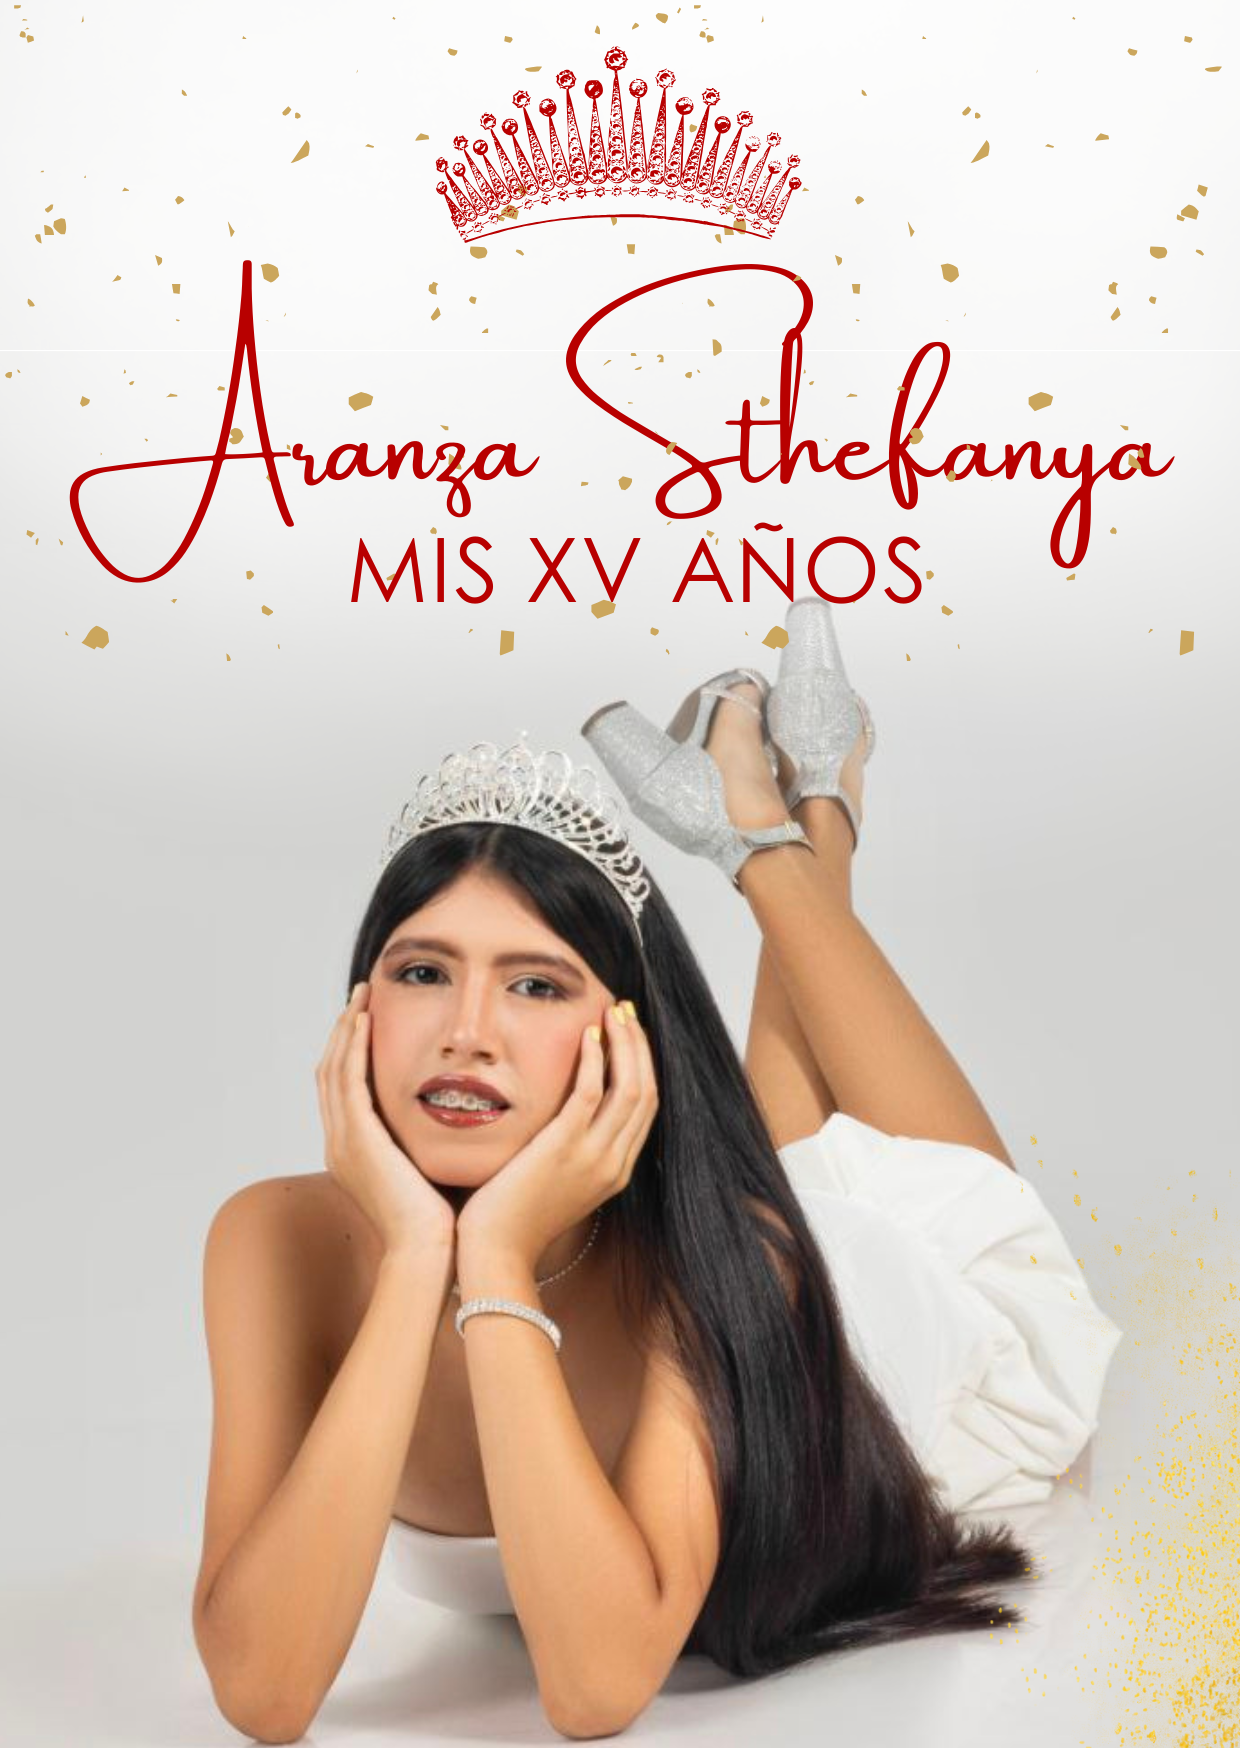
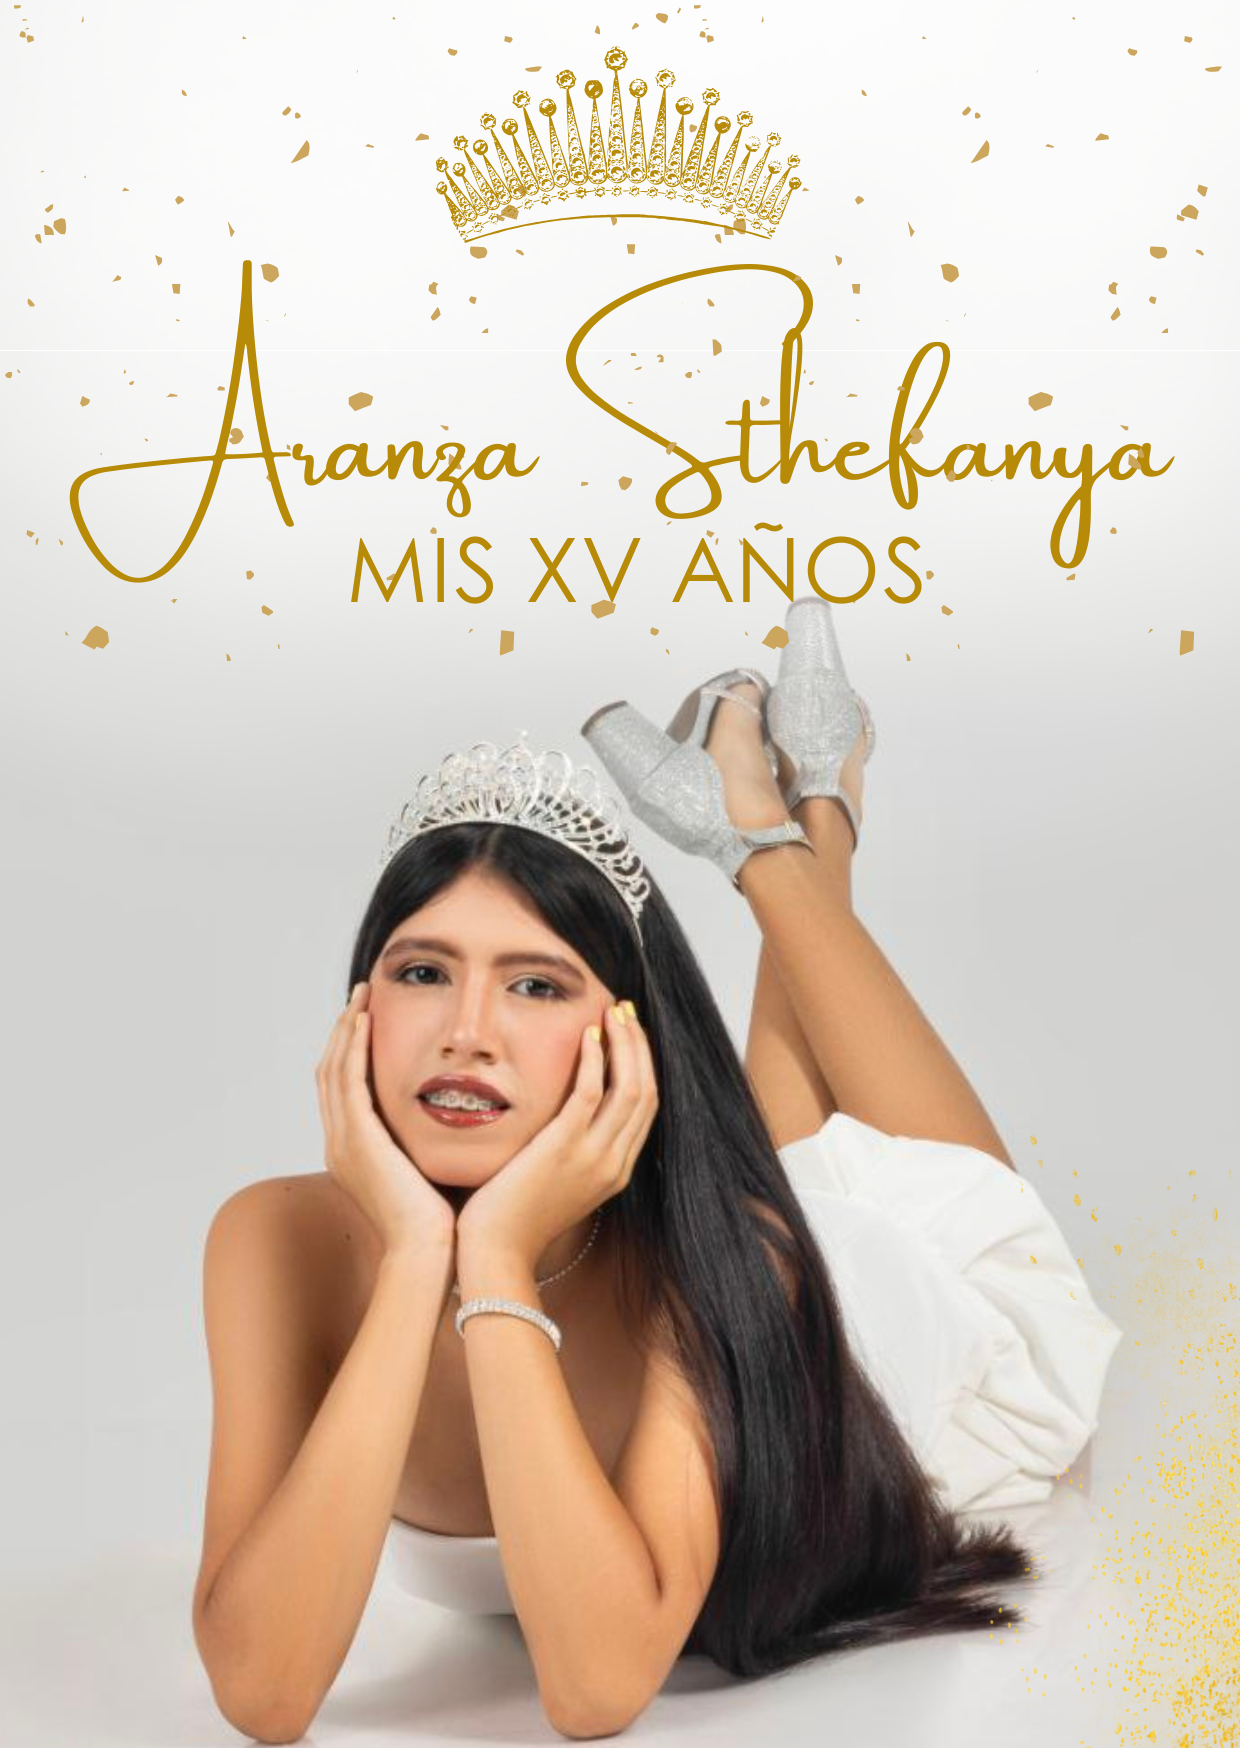
Add files via upload

diff --git a/style.css b/style.css
@@ -1,11 +1,12 @@
 /* Global Variables */
 :root {
-    --vinotinto: #800020;
-    --vinotinto-glow: rgba(128, 0, 32, 0.4);
     --gold: #d4af37;
+    --gold-dark: #b8912d;
+    --gold-light: #f4cf6d;
+    --gold-glow: rgba(212, 175, 55, 0.4);
     --beige: #f5f5dc;
     --white: #ffffff;
-    --font-family: 'Century Gothic', 'Outfit', sans-serif;
+    --font-family: 'Outfit', sans-serif;
 }
 
 * {
@@ -23,7 +24,7 @@ body {
     flex-direction: column;
     align-items: center;
     position: relative;
-    color: var(--vinotinto);
+    color: var(--gold-dark);
 }
 
 /* Sparkles Container */
@@ -174,19 +175,20 @@ body {
 
 .nav-btn {
     padding: 0.8rem 1.5rem;
-    background: var(--vinotinto);
+    background: var(--gold);
     color: var(--white);
-    border: none;
+    border: 1px solid var(--white);
     border-radius: 25px;
     cursor: pointer;
     font-family: var(--font-family);
     font-size: 0.9rem;
     transition: transform 0.2s, background 0.3s;
-    box-shadow: 0 4px 10px var(--vinotinto-glow);
+    box-shadow: 0 4px 10px rgba(212, 175, 55, 0.3);
+    font-weight: 300;
 }
 
 .nav-btn:hover {
-    background: #600018;
+    background: #e5c354;
     transform: translateY(-2px);
 }
 
@@ -215,15 +217,14 @@ body {
 footer {
     width: 100%;
     padding: 3rem 1rem;
-    background: linear-gradient(to top, #4d0013, #800020, transparent);
-    /* Pure deep vinotinto */
-    color: var(--white);
+    background: linear-gradient(to top, var(--gold-dark), var(--white), transparent);
+    /* Gold to white gradient */
+    color: var(--gold-dark);
     text-align: center;
     z-index: 10;
     margin-top: auto;
     backdrop-filter: blur(8px);
     border-top: 1px solid rgba(212, 175, 55, 0.2);
-    /* Gold border trace */
 }
 
 .music-player {
@@ -235,8 +236,8 @@ footer {
 
 .music-btn {
     background: transparent;
-    color: var(--white);
-    border: 2px solid var(--white);
+    color: var(--gold-dark);
+    border: 2px solid var(--gold-dark);
     padding: 0.8rem 2.5rem;
     border-radius: 50px;
     cursor: pointer;
@@ -247,13 +248,14 @@ footer {
     font-size: 1rem;
     letter-spacing: 1px;
     transition: all 0.4s cubic-bezier(0.4, 0, 0.2, 1);
-    box-shadow: 0 0 20px rgba(255, 255, 255, 0.1);
+    box-shadow: 0 0 20px rgba(212, 175, 55, 0.1);
+    font-weight: 600;
 }
 
 .music-btn:hover {
-    background: var(--white);
-    color: var(--vinotinto);
-    box-shadow: 0 0 30px rgba(255, 255, 255, 0.3);
+    background: var(--gold-dark);
+    color: var(--white);
+    box-shadow: 0 0 30px rgba(212, 175, 55, 0.3);
     transform: translateY(-3px);
 }
 
@@ -298,7 +300,8 @@ footer {
     text-transform: uppercase;
     letter-spacing: 3px;
     margin-top: 0.8rem;
-    opacity: 0.7;
+    color: var(--white);
+    opacity: 0.9;
     font-weight: 300;
 }
 
@@ -364,7 +367,7 @@ footer {
 
 .wa-tooltip {
     background: white;
-    color: var(--vinotinto);
+    color: var(--gold-dark);
     padding: 8px 18px;
     border-radius: 20px;
     font-size: 0.9rem;
@@ -389,14 +392,14 @@ footer {
 .wa-link {
     width: 65px;
     height: 65px;
-    background-color: var(--vinotinto);
+    background-color: var(--gold);
     border-radius: 50%;
     display: flex;
     justify-content: center;
     align-items: center;
-    box-shadow: 0 8px 25px var(--vinotinto-glow);
+    box-shadow: 0 8px 25px rgba(212, 175, 55, 0.4);
     transition: transform 0.3s ease;
-    border: 2px solid var(--gold);
+    border: 2px solid var(--white);
 }
 
 .wa-link:hover {
@@ -406,7 +409,7 @@ footer {
 .wa-svg {
     width: 38px;
     height: 38px;
-    fill: var(--gold);
+    fill: var(--white);
 }
 
 @keyframes wa-bounce {
@@ -439,7 +442,8 @@ footer {
 .heart-loader {
     width: 50px;
     height: 50px;
-    background-color: var(--vinotinto);
+    background-color: #800020;
+    /* Vinotinto */
     position: relative;
     transform: rotate(45deg);
     animation: heartbeat 1.2s infinite;
@@ -450,7 +454,8 @@ footer {
     content: '';
     width: 50px;
     height: 50px;
-    background-color: var(--vinotinto);
+    background-color: #800020;
+    /* Vinotinto */
     border-radius: 50%;
     position: absolute;
 }
